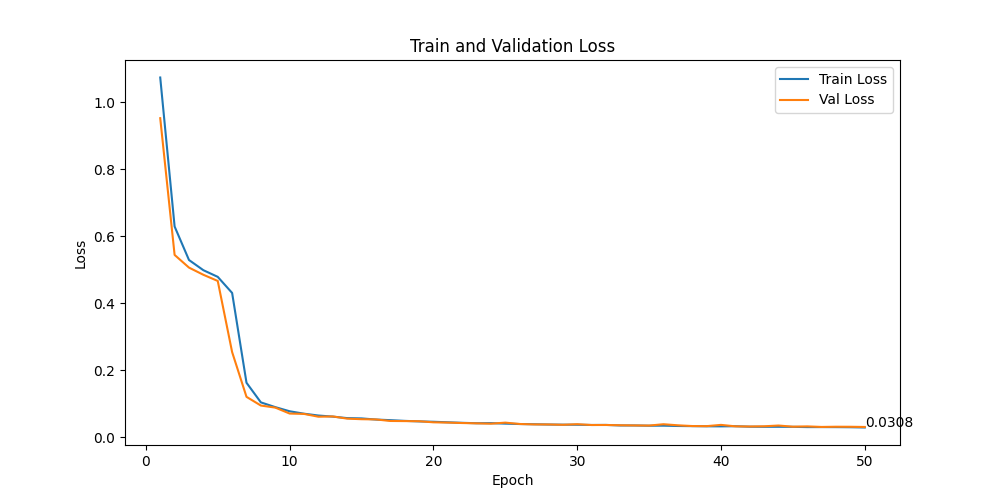
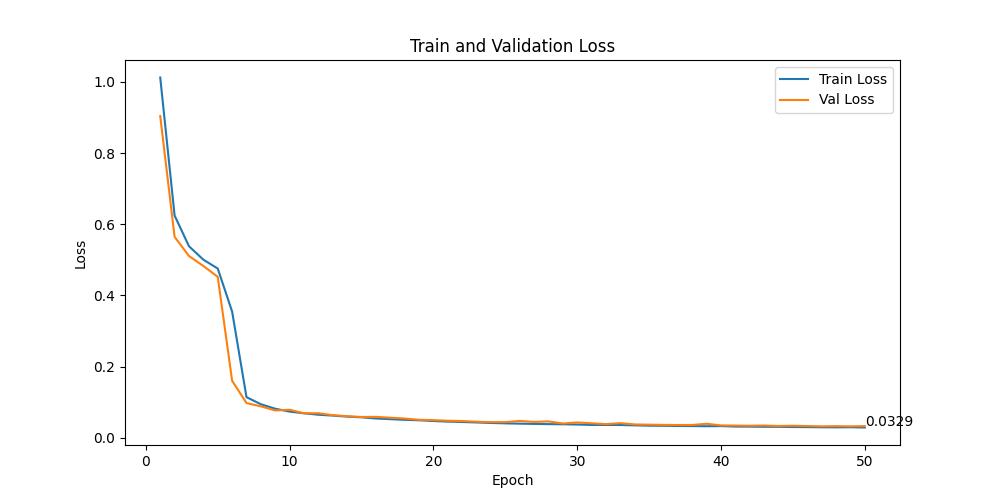
new unet noise and flip and VGGNet try

diff --git a/VGG_correct_try_pnt.py b/VGG_correct_try_pnt.py
@@ -3,7 +3,6 @@
 import numpy as np
 import time
 import matplotlib.pyplot as plt
-import seaborn as sns
 import torch
 from torch import nn
 import torch.nn.functional as F
@@ -16,16 +15,41 @@ from torchvision.utils import make_grid
 import torch.nn.init as init
 from torch.nn import Linear, Conv2d, BatchNorm2d, MaxPool2d, Dropout2d
 from torch.nn.functional import relu, elu, relu6, sigmoid, tanh, softmax
-from sklearn import metrics
+# from sklearn import metrics
 from torchvision.transforms import ToTensor
-import rasterio
-from rasterio.plot import show
 import os
 from glob import glob
 from PIL import Image
-path = "data"
+
+np.random.seed(42)
+
+image_path = 'data'
+label_path = 'labels'
 
 images_tensors = []
+labels_tensors = []
+
+image_files = sorted(os.listdir(image_path))
+label_files = sorted(os.listdir(label_path))
+
+for img_filename, lbl_filename in zip(image_files, label_files):
+    if img_filename[9:12] == lbl_filename[7:10]:  # Matching filenames by position
+        img_filepath = os.path.join(image_path, img_filename)
+        lbl_filepath = os.path.join(label_path, lbl_filename)
+
+        # Reading and converting images to tensors
+        single_image = Image.open(img_filepath)
+        single_image = ToTensor()(single_image)
+        images_tensors.append(single_image)
+
+        # Reading and converting labels to tensors
+        single_label = Image.open(lbl_filepath)
+        single_label = ToTensor()(single_label)
+        labels_tensors.append(single_label)
+
+
+
+'''images_tensors = []
 for subdirectory in os.listdir(path):
     subdirectory_path = os.path.join(path, subdirectory)
     single_image = Image.open(subdirectory_path)
@@ -40,6 +64,7 @@ for subdirectory in os.listdir(path):
     single_label = Image.open(subdirectory_path)
     single_label = ToTensor()(single_label)
     labels_tensors.append(single_label)
+'''
 
 use_cuda = torch.cuda.is_available()
 print("Running GPU.") if use_cuda else print("No GPU available.")
@@ -173,10 +198,11 @@ net = VGGnet(3) # 3 classes
 if use_cuda:
     net.cuda()
 
-device = torch.device('cpu')  # use cuda or cpu
+device = torch.device("cuda" if use_cuda else "cpu")  # use cuda or cpu
+ # use cuda or cpu
 net.to(device)
 #print(net)
-'''
+
 class DiceLoss(nn.Module):
     def __init__(self):
         super(DiceLoss, self).__init__()
@@ -192,21 +218,21 @@ class DiceLoss(nn.Module):
         return 1.0 - dice_coefficient
 # loss function: Cross entropy loss
 loss_VGGnet = DiceLoss()
-'''
+
 num_classes = 3  # Change this value based on your specific number of classes
 
 # Define the Cross Entropy Loss
-loss_VGGnet = nn.CrossEntropyLoss()
+#loss_VGGnet = nn.CrossEntropyLoss()
 
 # optimizer: ADAM
 optimizer_VGGnet = optim.Adam(net.parameters(), lr=1e-3)
 
-train_images = images_tensors[:10]#[:350]
-train_labels = labels_tensors[:10]#[:350]
-val_images = images_tensors[:11:16]#[350:400]
-val_labels = labels_tensors[:11:16]#[350:400]
-test_images = images_tensors[17:21]#[400:]
-test_labels = labels_tensors[17:21]#[400:]
+train_images = images_tensors[:350]#[:10]#[:350]
+train_labels = labels_tensors[:350]#[:10]#[:350]
+val_images = images_tensors[350:400]#[:11:16]#[350:400]
+val_labels = labels_tensors[350:400]#[:11:16]#[350:400]
+test_images = images_tensors[400:]#[17:21]#[400:]
+test_labels = labels_tensors[400:]#[17:21]#[400:]
 # batch size
 batch_size = 10
 
@@ -229,15 +255,16 @@ print("Image tensor shape:", images.shape)
 print(labels.shape)
 
 # number of epochs to train the model
-n_epochs = 2
+n_epochs = 50
 
 # Steps
 train_steps = len(train_loader)//batch_size
+print('Train steps:',train_steps)
 val_steps = len(val_loader)//batch_size
 test_steps = len(test_loader)//batch_size
 
 # validation loss
-valid_loss_min = np.Inf
+valid_loss_min = 20
 
 # lists to store training and validation losses
 train_losses = []
@@ -247,7 +274,7 @@ validation_losses = []
 train_accuracies = []
 validation_accuracies = []
 
-net.train()
+
 
 # start time (for printing elapsed time per epoch)
 starttime = time.time()
@@ -255,7 +282,7 @@ for epoch in range(n_epochs):
     
     total_train_loss = 0
     total_val_loss = 0
-
+    net.train()
     # loop over training data
     for images, labels in train_loader:
         # send the input to device
@@ -311,9 +338,9 @@ for epoch in range(n_epochs):
             #print('total_val_loss:',total_val_loss)
 
     # print training/validation statistics
-    avg_train_loss = total_train_loss#/train_steps
+    avg_train_loss = total_train_loss/train_steps
     print('avg_train_loss:',avg_train_loss)
-    avg_val_loss = total_val_loss#/val_steps
+    avg_val_loss = total_val_loss/val_steps
     print('avg_val_loss:',avg_val_loss)
 
     # update training history
@@ -336,4 +363,5 @@ plt.title('Training and Validation Loss Over Epochs')
 plt.xlabel('Epochs')
 plt.ylabel('Loss')
 plt.legend()
-plt.show()
+#plt.show()
+plt.savefig('figures/vggnet_loss.png')

diff --git a/unet_train_noise.py b/unet_train_noise.py
@@ -73,11 +73,29 @@ for img_filename, lbl_filename in zip(image_files, label_files):
         single_label = ToTensor()(single_label)
         labels_tensors.append(single_label)
 
+
+# Define data augmentation transformations
+augmentation_transforms  = transforms.Compose([
+    transforms.RandomHorizontalFlip(),   # Randomly flip the image horizontally
+    transforms.RandomVerticalFlip(),     # Randomly flip the image vertically
+    transforms.RandomRotation(degrees=45), # Randomly rotate the image by a certain degree
+    # Add more transformations as needed
+])
+
+
+# Apply transformations to both images and labels simultaneously
+transformed_data = [(augmentation_transforms(image), augmentation_transforms(label)) for image, label in zip(images_tensors, labels_tensors)]
+
+# Separate the transformed images and labels
+images_tensors, labels_tensors = zip(*transformed_data)
+
+
 # Crop images and labels to 256x256 and convert images to float
 transform = transforms.CenterCrop((256, 256))
 images_cropped = [transform(image) for image in images_tensors]
 images_256 = [image.type(torch.FloatTensor) for image in images_cropped]
 labels_cropped = [transform(label) for label in labels_tensors]
+
 
 # Convert labels to one-hot encoding
 labels_one_hot = [F.one_hot(label.squeeze().long(), num_classes=3).permute(2, 0, 1).float() for label in labels_cropped]
@@ -190,7 +208,7 @@ plt.title('Train and Validation Loss')
 plt.legend()
 # show val loss as text on plot for last epoch
 plt.text(n_epochs, val_losses[-1], f'{val_losses[-1]:.4f}')
-plt.savefig('figures/unet_loss.png')
+plt.savefig('figures/unet_lossflip.png')
 
 # Plot the train and validation accuracy
 plt.figure(figsize=(10, 5))
@@ -202,7 +220,7 @@ plt.title('Train and Validation Accuracy')
 plt.legend()
 # show val accuracy as text on plot for last epoch
 plt.text(n_epochs, val_accuracies[-1], f'{val_accuracies[-1]:.4f}')
-plt.savefig('figures/unet_accuracy.png')
+plt.savefig('figures/unet_accuracyflip.png')
 
 # For just 1 image, show the original, the label and the prediction side by side
 net.eval()
